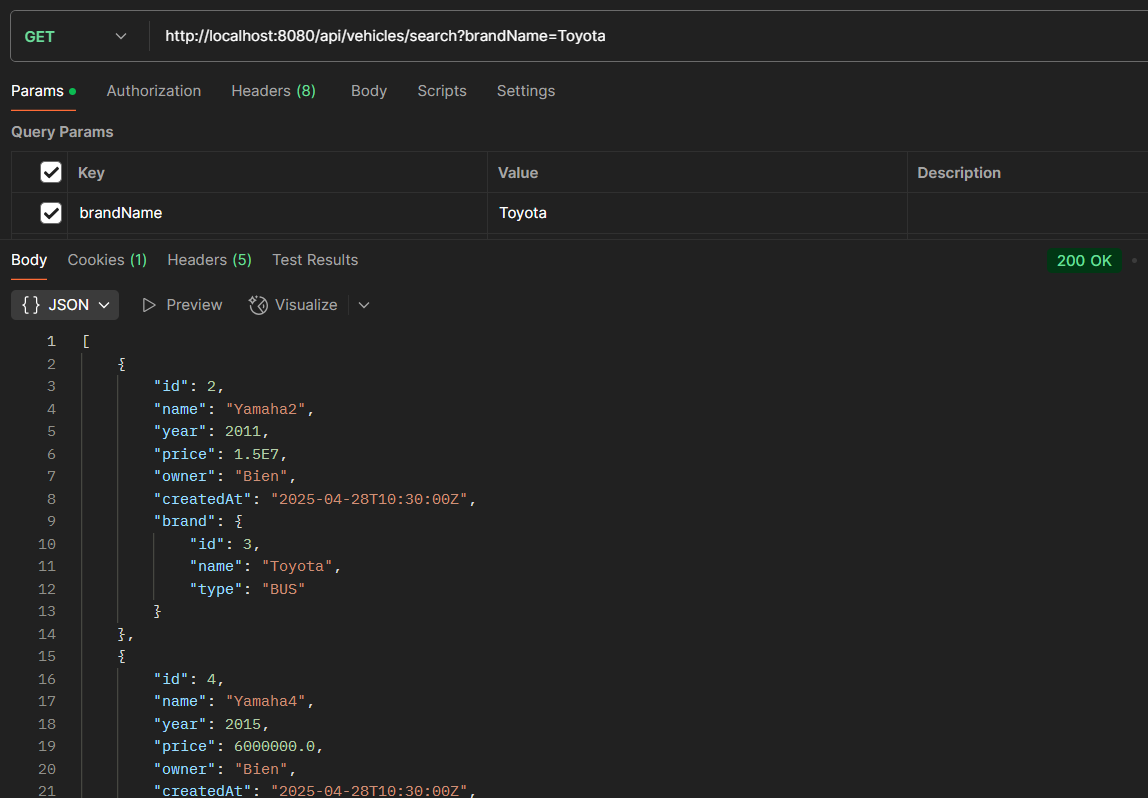
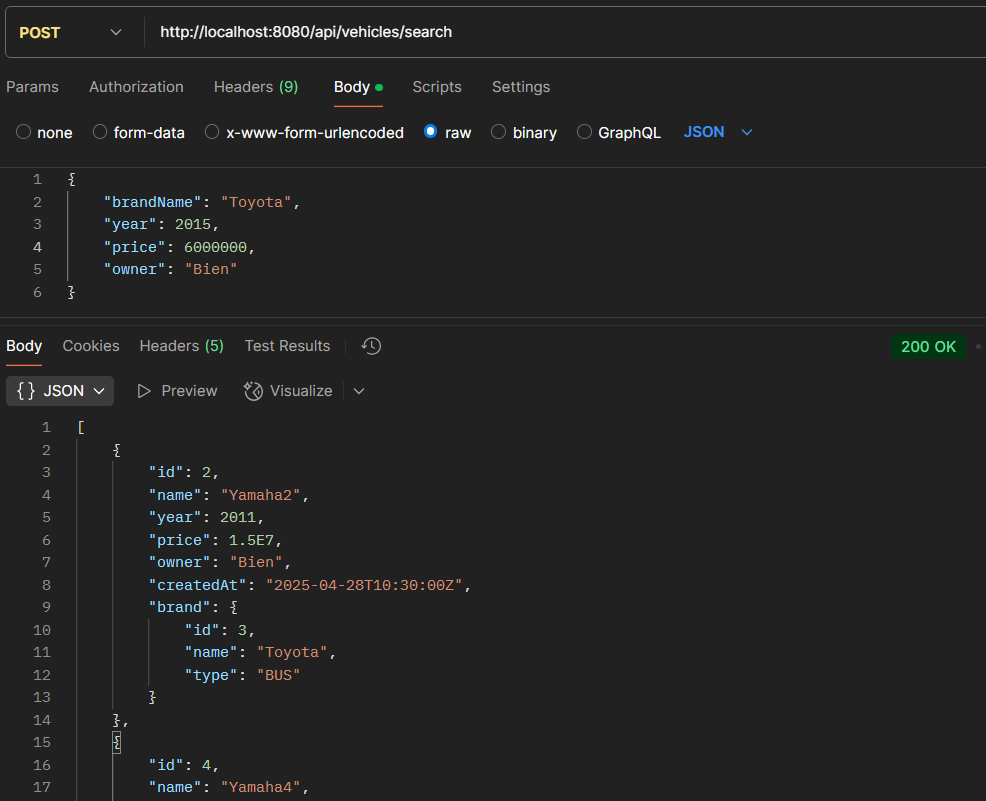
use JPQL, SpEL for ex2, 3

diff --git a/src/main/java/com/example/vehicle/service/VehicleService.java b/src/main/java/com/example/vehicle/service/VehicleService.java
@@ -1,17 +1,14 @@
 package com.example.vehicle.service;
 
-import com.example.vehicle.dto.VehicleDTO;
+import com.example.vehicle.dto.*;
 import com.example.vehicle.entity.Brand;
 import com.example.vehicle.entity.Vehicle;
 import com.example.vehicle.repository.BrandRepository;
 import com.example.vehicle.repository.VehicleRepository;
-import com.example.vehicle.repository.VehicleSpecification;
 import org.springframework.beans.factory.annotation.Autowired;
-import org.springframework.data.jpa.domain.Specification;
 import org.springframework.stereotype.Service;
 
 import java.time.Instant;
-import java.time.LocalDateTime;
 import java.util.List;
 import java.util.Optional;
 
@@ -59,17 +56,15 @@ public class VehicleService {
         vehicleRepository.deleteById(id);
     }
 
-    public List<Vehicle> searchVehicles(String brandName, Integer year, Double price, String owner) {
-        Specification<Vehicle> spec = Specification.where(VehicleSpecification.hasBrand(brandName))
-                .and(VehicleSpecification.hasYear(year))
-                .and(VehicleSpecification.hasPrice(price))
-                .and(VehicleSpecification.hasOwner(owner));
-
-        return vehicleRepository.findAll(spec);
+    public List<Vehicle> searchVehicles(VehicleSearchDTO req) {
+        return vehicleRepository.searchVehicles(req);
     }
 
-    public List<Vehicle> getVehiclesByCustomCondition() {
-        Specification<Vehicle> spec = VehicleSpecification.customPriceAndBrandCondition();
-        return vehicleRepository.findAll(spec);
+    public List<Vehicle> getCustomVehicles() {
+        Double priceThreshold = 10_000_000.0;
+        String brandPrefix = "S";
+        String brandType = "BUS";
+
+        return vehicleRepository.findVehiclesByCustomCondition(priceThreshold, brandPrefix, brandType);
     }
 }

diff --git a/src/main/java/com/example/vehicle/repository/VehicleRepository.java b/src/main/java/com/example/vehicle/repository/VehicleRepository.java
@@ -1,8 +1,32 @@
 package com.example.vehicle.repository;
 
+import com.example.vehicle.dto.VehicleSearchDTO;
 import com.example.vehicle.entity.Vehicle;
 import org.springframework.data.jpa.repository.JpaRepository;
-import org.springframework.data.jpa.repository.JpaSpecificationExecutor;
+import org.springframework.data.jpa.repository.Query;
+import org.springframework.data.repository.query.Param;
 
-public interface VehicleRepository extends JpaRepository<Vehicle, Long>, JpaSpecificationExecutor<Vehicle> {
+import java.util.List;
+
+public interface VehicleRepository extends JpaRepository<Vehicle, Long> {
+    @Query("""
+        SELECT v FROM Vehicle v 
+        WHERE (:#{#req.brandName} IS NULL OR v.brand.name LIKE %:#{#req.brandName}%)
+          AND (:#{#req.year} IS NULL OR v.year = :#{#req.year})
+          AND (:#{#req.price} IS NULL OR v.price = :#{#req.price})
+          AND (:#{#req.owner} IS NULL OR v.owner LIKE %:#{#req.owner}%)
+    """)
+    List<Vehicle> searchVehicles(@Param("req") VehicleSearchDTO req);
+
+    @Query("""
+        SELECT v FROM Vehicle v
+        WHERE (v.price > :priceThreshold AND v.brand.name LIKE CONCAT(:brandPrefix, '%'))
+           OR (v.price <= :priceThreshold AND v.brand.type = :brandType)
+    """)
+    List<Vehicle> findVehiclesByCustomCondition(
+            @Param("priceThreshold") Double priceThreshold,
+            @Param("brandPrefix") String brandPrefix,
+            @Param("brandType") String brandType
+    );
+
 }

diff --git a/src/main/java/com/example/vehicle/controller/VehicleController.java b/src/main/java/com/example/vehicle/controller/VehicleController.java
@@ -1,6 +1,7 @@
 package com.example.vehicle.controller;
 
 import com.example.vehicle.dto.VehicleDTO;
+import com.example.vehicle.dto.VehicleSearchDTO;
 import com.example.vehicle.entity.Vehicle;
 import com.example.vehicle.service.VehicleService;
 import org.springframework.beans.factory.annotation.Autowired;
@@ -47,21 +48,15 @@ public class VehicleController {
         return ResponseEntity.noContent().build();
     }
 
-    @GetMapping("/search")
-    public ResponseEntity<List<Vehicle>> searchVehicles(
-            @RequestParam(required = false) String brandName,
-            @RequestParam(required = false) Integer year,
-            @RequestParam(required = false) Double price,
-            @RequestParam(required = false) String owner) {
-
-        List<Vehicle> vehicles = vehicleService.searchVehicles(brandName, year, price, owner);
-
+    @PostMapping("/search")
+    public ResponseEntity<List<Vehicle>> searchVehicles(@RequestBody VehicleSearchDTO req) {
+        List<Vehicle> vehicles = vehicleService.searchVehicles(req);
         return ResponseEntity.ok(vehicles);
     }
 
     @GetMapping("/filter")
     public ResponseEntity<List<Vehicle>> getVehiclesByCustomCondition() {
-        List<Vehicle> vehicles = vehicleService.getVehiclesByCustomCondition();
+        List<Vehicle> vehicles = vehicleService.getCustomVehicles();
         return ResponseEntity.ok(vehicles);
     }
 

diff --git a/src/main/java/com/example/vehicle/entity/Vehicle.java b/src/main/java/com/example/vehicle/entity/Vehicle.java
@@ -16,13 +16,12 @@ public class Vehicle {
     private Long id;
 
     private String name;
-    private int year;
-    private double price;
+    private Integer year;
+    private Double price;
     private String owner;
     private Instant createdAt;
 
     @ManyToOne
     @JoinColumn(name = "brand_id")
     private Brand brand;
-
 }

diff --git a/src/main/java/com/example/vehicle/dto/VehicleDTO.java b/src/main/java/com/example/vehicle/dto/VehicleDTO.java
@@ -8,10 +8,9 @@ import java.time.Instant;
 @Setter
 public class VehicleDTO {
     private String name;
-    private int year;
-    private double price;
+    private Integer year;
+    private Double price;
     private String owner;
     private Instant createdAt;
     private Long brandId;
-
 }

diff --git a/src/main/java/com/example/vehicle/dto/VehicleSearchDTO.java b/src/main/java/com/example/vehicle/dto/VehicleSearchDTO.java
@@ -1,0 +1,13 @@
+package com.example.vehicle.dto;
+
+import lombok.Getter;
+import lombok.Setter;
+
+@Getter
+@Setter
+public class VehicleSearchDTO {
+    private String brandName;
+    private Integer year;
+    private Double price;
+    private String owner;
+}

diff --git a/README.md b/README.md
@@ -23,24 +23,8 @@
 * Dữ liệu mẫu bảng vehicle
 ![img/img_14.png](img/img_14.png)
 
-
-Tìm kiếm danh sách các phương tiện dựa trên các tiêu chí được cung cấp.
-![img/img_6.png](img/img_6.png)
-
-[GET] /api/vehicles/search?brandName=Toyota
+[POST] /api/vehicles/search
 ![img/img_7.png](img/img_7.png)
-
-[GET] /api/vehicles/search?year=2011
-![img/img_8.png](img/img_8.png)
-
-[GET] /api/vehicles/search?price=12000000
-![img/img_9.png](img/img_9.png)
-
-[GET] /api/vehicles/search?owner=Bien
-![img/img_10.png](img/img_10.png)
-
-[GET] /api/vehicles/search?brandName=Toyota&year=2015&price=6000000&owner=Bien
-![img/img_11.png](img/img_11.png)
 
 ## 3. Xuất ra các xe có giá giá tiền > 10.000.000 và tên hãng bắt đầu bằng "S", nếu giá tiền <= 10.000.000 thì chỉ in ra các hãng xe thuộc loại "BUS"
 
